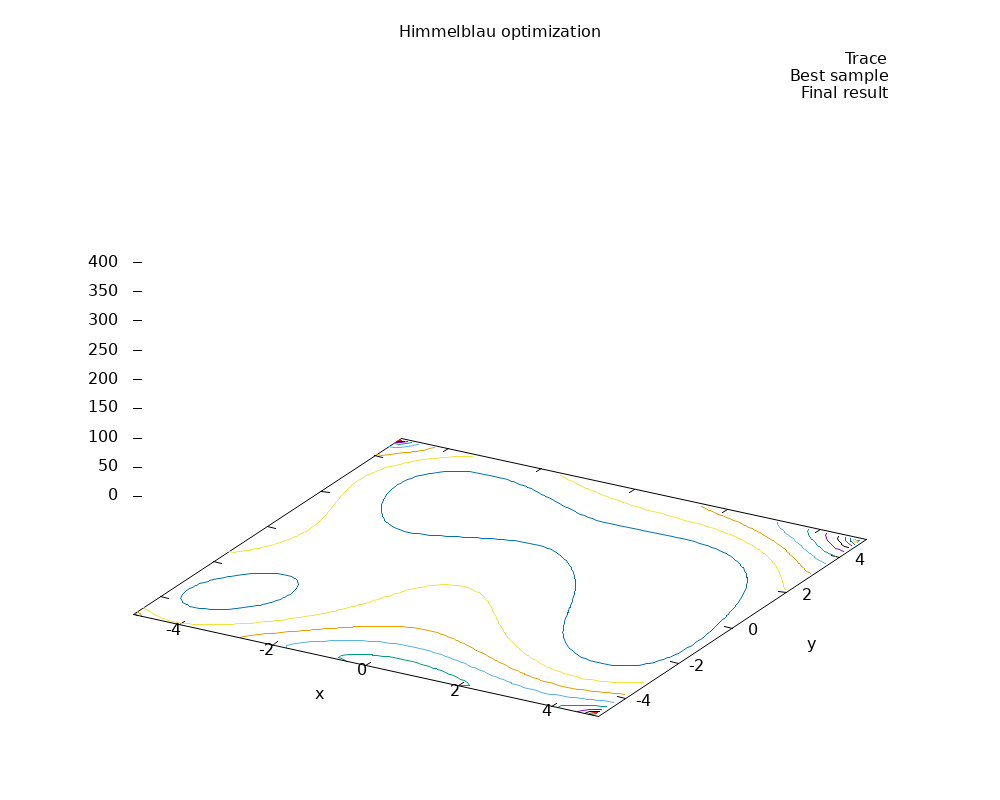
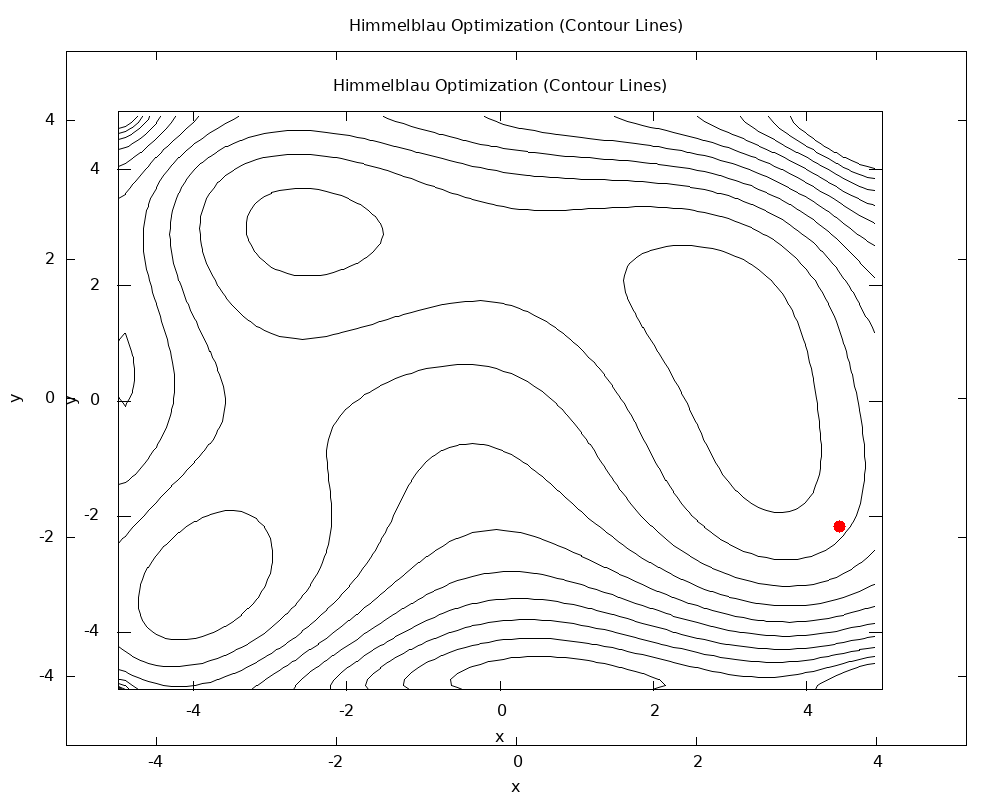
Ver 2.1

diff --git a/Exam/main.cs b/Exam/main.cs
@@ -31,7 +31,14 @@ class Program {
         Console.WriteLine($"Final result: f({minimum[0]:F6}, {minimum[1]:F6}) = {f(minimum):F6}");
 
         File.WriteAllText(bestFile, $"{bestSample[0]} {bestSample[1]}\n");
-        File.WriteAllText(finalFile, $"{minimum[0]} {minimum[1]}\n");
+
+        if (name == "himmelblau") {
+            double result = f(minimum);
+            File.WriteAllText("final_himmelblau.txt",
+                $"{minimum[0]} {minimum[1]} {result}");
+        } else {
+            File.WriteAllText(finalFile, $"{minimum[0]} {minimum[1]}\n");
+        }
 
         if (name == "himmelblau") GenerateSurfaceFile(f, a, b, "himmelblau_surface.txt", 100);
     }
